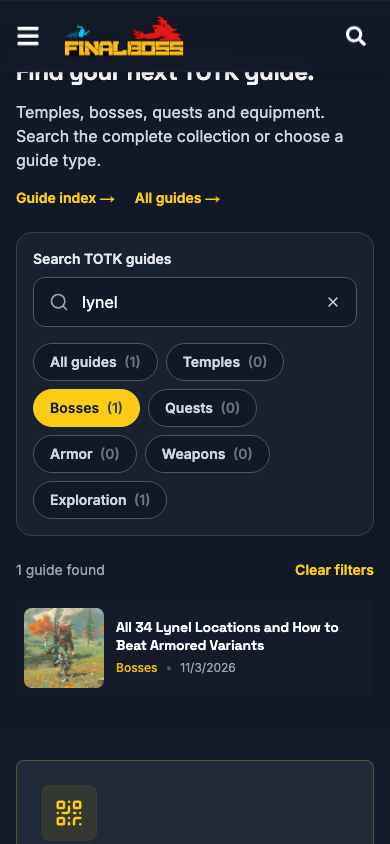
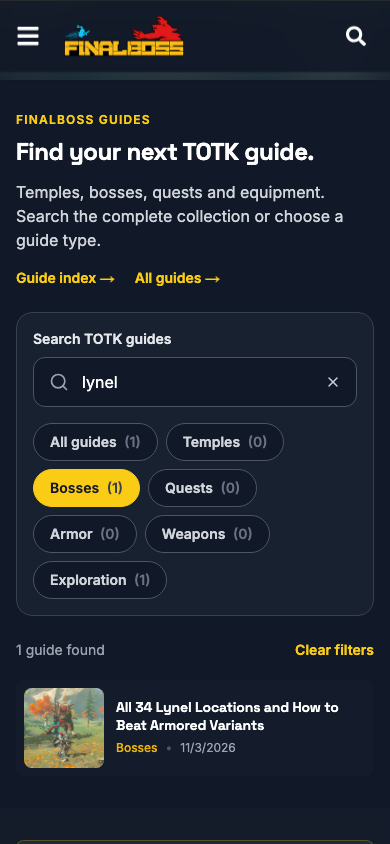
Record live TOTK hub search verification and equipment sources

diff --git a/tests/guide-discovery/search-browser.py b/tests/guide-discovery/search-browser.py
@@ -29,7 +29,8 @@ with sync_playwright() as p:
     page.set_default_timeout(120000)
     errors = []
     page.on('pageerror', lambda error: errors.append(str(error)))
-    assert page.goto(BASE + HUB, wait_until='domcontentloaded', timeout=120000).status == 200
+    assert page.goto(BASE + HUB, wait_until='load', timeout=120000).status == 200
+    assert not errors, errors
     explorer = page.locator('[data-totk-guide-explorer]')
     expect(explorer).to_have_attribute('data-total-guides', '90')
     assert page.locator('h1').count() == 1
@@ -91,6 +92,7 @@ with sync_playwright() as p:
     assert page.evaluate('document.documentElement.scrollWidth <= innerWidth')
     explorer.scroll_into_view_if_needed()
     page.wait_for_function("[...document.querySelectorAll('[data-totk-guide-results] img')].filter(el => el.getBoundingClientRect().width > 0).every(el => el.complete && el.naturalWidth > 0)")
+    page.evaluate("window.scrollTo(0, scrollY + document.querySelector('[data-totk-guide-explorer]').getBoundingClientRect().top - 80)")
     page.screenshot(path=str(OUT / 'mobile-search.png'), animations='disabled')
     page.get_by_role('link', name='All guides →', exact=True).click()
     page.wait_for_url(BASE + '/guides/zelda-tears-of-the-kingdom-guide')

diff --git a/docs/releases/2026-11-04-guide-search/README.md b/docs/releases/2026-11-04-guide-search/README.md
@@ -1,6 +1,6 @@
 # TOTK hub guide search and filters
 
-The game hub searches the complete published TOTK guide collection before displaying the first 12 results. Six combinable guide types use saved WordPress tags. Text search combines with one selected type; reset, result counts, empty state and incremental display work without another network request. Existing FinalBoss gray/yellow styles and article cards are retained.
+The game hub searches the complete published TOTK guide collection before displaying the first 12 results. Six guide types use saved WordPress tags. Text search combines with one selected type; reset, result counts, empty state and incremental display work without another network request. Existing FinalBoss gray/yellow styles and article cards are retained.
 
 ## WordPress classification
 
@@ -26,10 +26,24 @@ The server walks all game-post cursor pages with progress/limit checks; it never
 - Regression flows: `tests/guide-discovery/browser.py` checks general/category archives, permanent redirects and hub navigation.
 - Production build: OpenNext Cloudflare, followed by the checked Next 14 manifest compatibility patch. No Cloudflare image transformations enabled.
 
-Deployment and live verification are recorded below after completion.
+Source commit: `2332000`. Build ID: `kcEAWo0wlJydR_5a7b-zO`. The production build generated 2,622 routes; 5,264 cache objects are seeded before the Worker is switched. The direct Wrangler dry run passes with the existing cache/queue bindings and no Images binding. Live verification is recorded below after deployment.
 
 ## Equipment sources for the next editorial batch
 
 No scans are required. Use [Zelda Dungeon's TOTK armor table](https://www.zeldadungeon.net/wiki/Tears_of_the_Kingdom_Armor) for armor pieces, defense tiers and upgrade materials, then cross-check the specific item pages on [Zelda Wiki](https://zeldawiki.wiki/wiki/Barbarian_Armor). For weapons, start with [Zelda Wiki's TOTK weapons list](https://zeldawiki.wiki/wiki/Weapons_in_Tears_of_the_Kingdom) and cross-check item pages such as [Royal Broadsword on Zelda Dungeon](https://www.zeldadungeon.net/wiki/Royal_Broadsword).
 
 Keep BOTW and TOTK sections separate. Distinguish decayed/pristine base weapons, durability, Fuse contributions and conditional bonuses rather than presenting one ambiguous attack value. Draft original English FinalBoss explanations from verified gameplay facts. Do not copy wiki prose or assume permission for their screenshots. This feature release does not create or publish another equipment-article batch.
+
+Detailed equipment coverage and source handoff: [equipment-sources.md](equipment-sources.md).
+
+## Production verification
+
+Production version: `72a0ae05-a950-4043-bde0-77665c243023`, deployed to finalboss.io and www.finalboss.io after all 5,264 cache objects for the exact build ID above were seeded. The scheduled refresh and existing Worker bindings remain active.
+
+- Live desktop/mobile browser checks pass for all six type filters against the saved WordPress classification, including every result through pagination.
+- Search reaches the Skyview Towers guide outside the initial twelve cards. Combined query/type filtering, Hylian Shield and Lynel searches, empty state, clear controls and all ninety guides through Show more pass.
+- General guides, the real Zelda archive and the game hub still expose all ninety published guides. Existing permanent guide/article redirects, builds/recipes links, mobile navigation, no horizontal overflow and no JavaScript errors pass.
+- Public HTTP checks return 200 and the expected canonicals for home, guides, the Zelda archive, hub, builds and recipes. All six filters and the total of ninety guides are present in the initial hub response. Warm legacy redirects retain Location.
+- The authenticated publication refresh checked 98 posts and revalidated 104 paths, including the hub and guide archives, with zero failed invalidations.
+
+Evidence: `verification.json`, `wordpress-guide-types.json`, `browser-live.txt`, `discovery-regression-live.txt`, `http-live.json`, `publication-refresh.json`, and the final desktop/mobile screenshots. Third-party advertising/tracking requests were blocked in browser QA; ad fill was not evaluated.

diff --git a/docs/releases/2026-11-04-guide-search/equipment-sources.md b/docs/releases/2026-11-04-guide-search/equipment-sources.md
@@ -1,0 +1,21 @@
+# Equipment coverage and source handoff
+
+No equipment posts were created or republished in this release. The existing collection has 10 armor-related guides and 5 weapon-related guides. Armor-related results include unlock/reward quests, not ten separate armor-set walkthroughs.
+
+Existing foundations to extend and interlink:
+
+- [All armor sets](https://finalboss.io/zelda-totk-all-armor-sets-locations-and-set-bonuses), [Great Fairies](https://finalboss.io/zelda-totk-all-great-fairy-locations-and-unlock-quests), [Champion's Leathers](https://finalboss.io/zelda-totk-how-to-get-the-champion-s-leathers).
+- [Master Sword](https://finalboss.io/zelda-totk-how-to-get-the-master-sword), [Hylian Shield](https://finalboss.io/zelda-totk-how-to-get-the-hylian-shield), [Rock Octoroks](https://finalboss.io/zelda-totk-how-to-repair-and-upgrade-weapons-with-rock-octoroks), [unique weapons](https://finalboss.io/zelda-totk-unique-weapons-how-to-repair-and-reacquire-them), [Hyrule Castle equipment](https://finalboss.io/zelda-totk-hyrule-castle-equipment-and-treasure-route).
+
+## Sources already checked
+
+| Coverage | Starting source | Cross-check |
+| --- | --- | --- |
+| Armor pieces, defense tiers, upgrade materials | [Zelda Dungeon: TOTK armor](https://www.zeldadungeon.net/wiki/Tears_of_the_Kingdom_Armor) | Specific TOTK sections on Zelda Wiki, e.g. [Barbarian Armor](https://zeldawiki.wiki/wiki/Barbarian_Armor) |
+| Weapon attack and durability | [Zelda Wiki: TOTK weapons](https://zeldawiki.wiki/wiki/Weapons_in_Tears_of_the_Kingdom) | Specific item pages, e.g. [Royal Broadsword on Zelda Dungeon](https://www.zeldadungeon.net/wiki/Royal_Broadsword) |
+
+For future armor-set articles, verify each piece's location/coordinates, base defense, defense at each upgrade tier, exact materials/rupees, effects, upgrade eligibility and set-bonus requirements. For weapons, verify decayed/pristine versions separately, base attack, durability, acquisition, repair/replacement and conditional bonuses. Keep base attack separate from Fuse and situational multipliers.
+
+The checked item pages include other Zelda games: extract only the explicitly marked TOTK sections. Do not treat a BOTW statistic as a TOTK value. If sources disagree, resolve the specific fact before drafting it.
+
+Use original English FinalBoss guide prose and the existing WordPress article workflow when the next editorial batch is requested. Interlink the relevant set/weapon articles with the existing overviews and unlock/repair guides; assign the game relationship, TOTK guide category and the saved guide-type tags used by the new hub filters. No GPBot enqueue is needed.
